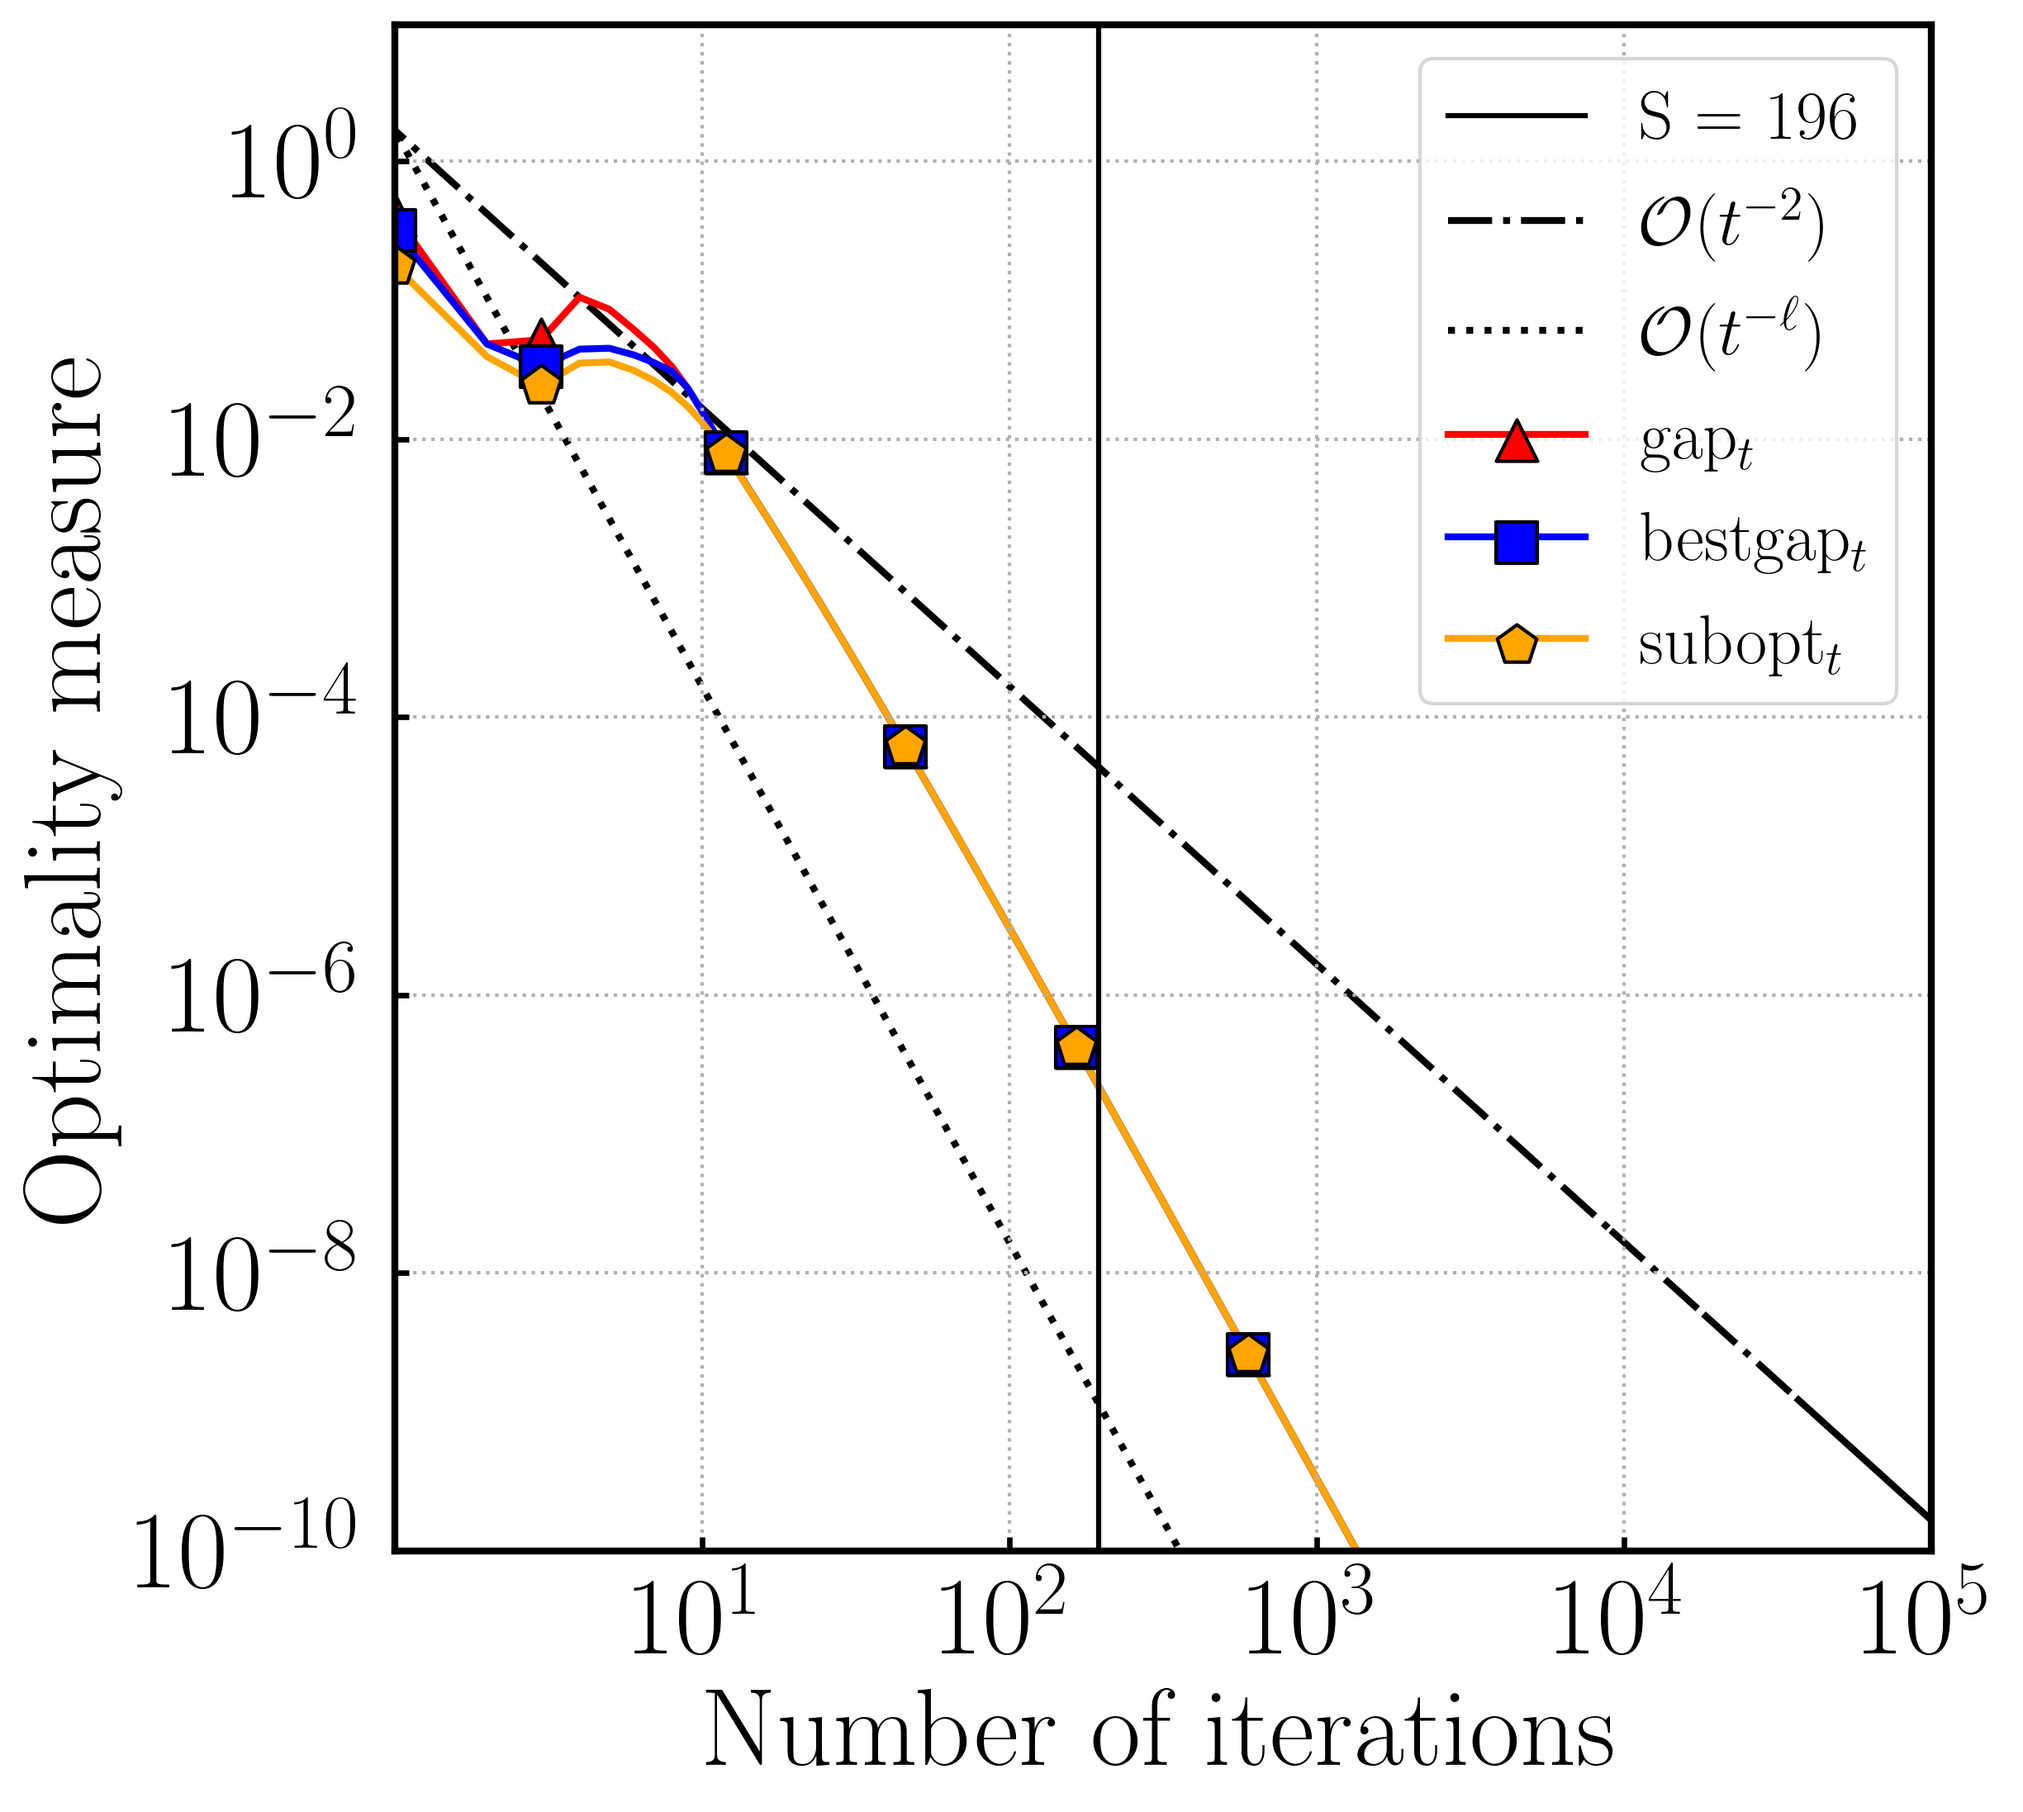
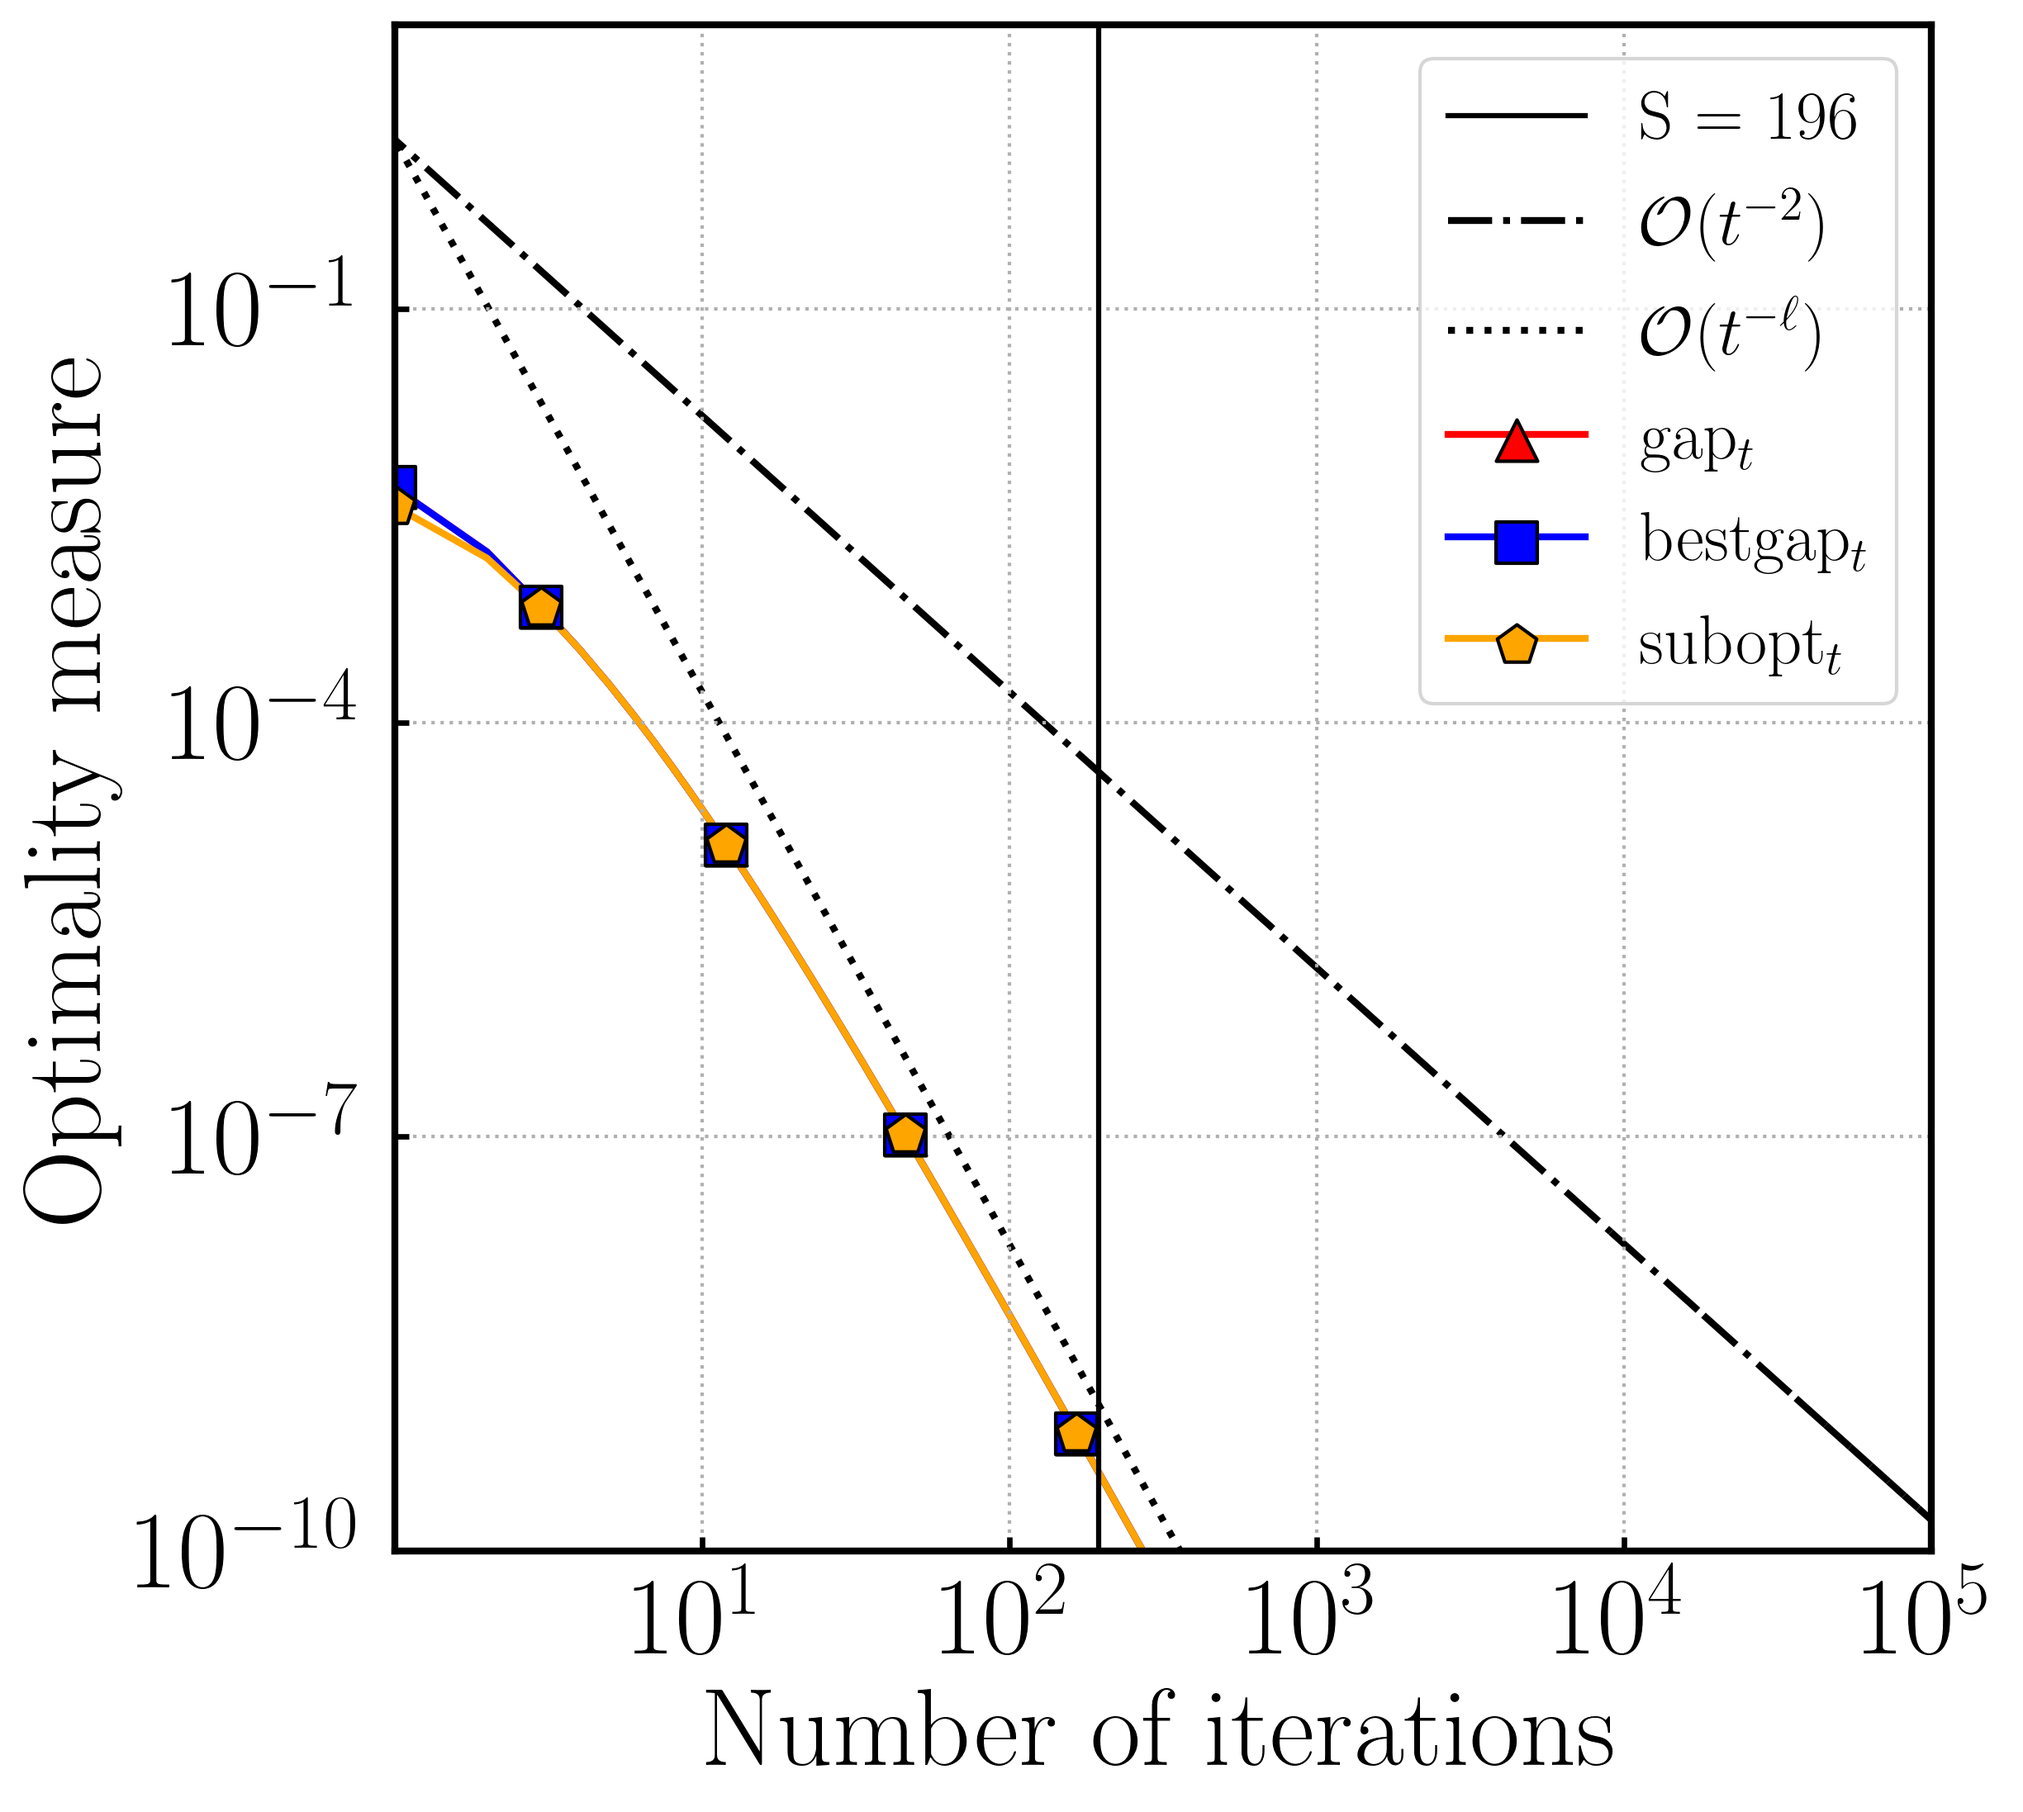
experiments have been double checked

diff --git a/experiments/strong_growth.py b/experiments/strong_growth.py
@@ -13,13 +13,12 @@ np.random.seed(RANDOM)
 mpl.rcParams['agg.path.chunksize'] = CHUNKSIZE
 mpl.rcParams['axes.linewidth'] = LINEWIDTH
 
-
 ps = [1.01, 1.1, 2., 2.5, 3., 7.]
 lmbdas = [0.2]
 l = 4
 for lmbda in lmbdas:
     for p in ps:
-        q = 1 /(1-1/p)
+        q = 1 / (1 - 1 / p)
         assert p >= 1, "Only consider lp-balls with p>= 1."
         if p < 2:
             alpha = (p - 1) / 2
@@ -27,14 +26,14 @@ for lmbda in lmbdas:
             y = np.random.random((DIMENSION, 1))
             y = (lmbda + 1) * y / lpnorm(y, q)
             L = 1.
-            M = L*(alpha*lmbda)**(-1)
+            M = L * (alpha * lmbda) ** (-1)
         elif p >= 2:
-            alpha = 1/p
+            alpha = 1 / p
             r = 2 / p
             y = np.random.random((DIMENSION, 1))
             y = (lmbda + DIMENSION ** (1 / q - 1 / p)) * y / lpnorm(y, q)
-            L = DIMENSION ** (1/2 - 1/p)
-            M = L * (alpha*lmbda)**(-2/p)
+            L = DIMENSION ** (1 / 2 - 1 / p)
+            M = L * (alpha * lmbda) ** (-2 / p)
 
         M_0 = 4 * L
         M = max(M, M_0)
@@ -46,7 +45,7 @@ for lmbda in lmbdas:
 
         fw_step_size_rules = [{"step type": "open-loop", "a": l, "b": 1, "c": l, "d": 1}]
         primal_gaps, dual_gaps, best_gaps, _ = run_experiment(ITERATIONS, objective_function, feasible_region,
-                                                                   run_more=RUN_MORE, fw_step_size_rules=fw_step_size_rules)
+                                                              run_more=RUN_MORE, fw_step_size_rules=fw_step_size_rules)
 
         gaps = [dual_gaps[0][1:ITERATIONS], best_gaps[0][1:ITERATIONS], primal_gaps[0][1:ITERATIONS]]
         labels = ["gap" + r'$_t$', "bestgap" + r'$_t$', "subopt" + r'$_t$']
@@ -55,14 +54,14 @@ for lmbda in lmbdas:
         file_name = ("strong_growth" + "_r=" + str(round(r, 2)) + "_M=" + str(round(M, 2)) + "_p=" + str(round(p, 2)) +
                      "_lmbda=" + str(round(lmbda, 2)) + "_l=" + str(l))
 
-        S = int(max(np.int64(np.ceil(M*l/2 - l)), 1))
+        S = int(max(np.int64(np.ceil(l * M / 2 - l)), 1))
         S_label = "S = " + str(S)
         lines = [(S, S_label)]
 
         gap_plotter(y_data=gaps,
                     labels=labels,
                     iterations=ITERATIONS,
-                    file_name=("gaps_"+file_name),
+                    file_name=("gaps_" + file_name),
                     x_lim=(1, ITERATIONS),
                     y_lim=determine_y_lims(primal_gaps),
                     y_label=("Optimality measure"),
@@ -73,7 +72,3 @@ for lmbda in lmbdas:
                     markers=markers,
                     vertical_lines=lines
                     )
-
-
-
-

diff --git a/experiments/weak_boundary_growth.py b/experiments/weak_boundary_growth.py
@@ -17,7 +17,7 @@ ps = [1.02, 2., 7.]
 l = 4
 for y_norm in [1.0]:
     for p in ps:
-        q = 1 /(1-1/p)
+        q = 1 / (1 - 1 / p)
         assert p >= 1, "Only consider lp-balls with p>= 1."
         if p < 2:
             alpha = (p - 1) / 2
@@ -25,18 +25,18 @@ for y_norm in [1.0]:
             y = np.random.random((DIMENSION, 1))
             y = y / lpnorm(y, p)
             L = 1.
-            mu = np.sqrt(2)*DIMENSION ** (1/2 - 1/p)
-            theta = 1/2
-            M = L*(mu/alpha)
+            mu = np.sqrt(2) * DIMENSION ** (1 / 2 - 1 / p)
+            theta = 1 / 2
+            M = L * (mu / alpha)
         elif p >= 2:
-            alpha = 1/p
+            alpha = 1 / p
             r = 2 / p
             y = np.random.random((DIMENSION, 1))
             y = DIMENSION ** (1 / q - 1 / p) * y / lpnorm(y, p)
-            L = DIMENSION ** (1/2 - 1/p)
+            L = DIMENSION ** (1 / 2 - 1 / p)
             mu = np.sqrt(2)
             theta = 1 / 2
-            M = L * (mu/alpha)**(2/p)
+            M = L * (mu / alpha) ** (2 / p)
 
         M_0 = 4 * L
         M = max(M, M_0)
@@ -55,10 +55,11 @@ for y_norm in [1.0]:
         labels = ["gap" + r'$_t$', "bestgap" + r'$_t$', "subopt" + r'$_t$']
         gap_0 = dual_gaps[0][0]
         gaps, labels, styles, colors, markers = create_reference_lines_automatically(gaps, labels, r, l, gap_0)
-        file_name = (("weak_boundary_growth" + "_r=" + str(round(r, 2)) + "_M=" + str(round(M, 2)) + "_p=" + str(round(p, 2))) +
+        file_name = (("weak_boundary_growth" + "_r=" + str(round(r, 2)) + "_M=" + str(round(M, 2)) + "_p=" + str(
+            round(p, 2))) +
                      "_y_norm=" + str(y_norm) + "_l=" + str(l))
 
-        S = int(max(np.int64(np.ceil(M * l / 2 - l)), 1))
+        S = int(max(np.int64(np.ceil(l * M / 2 - l)), 1))
         S_label = "S = " + str(S)
         lines = [(S, S_label)]
 

diff --git a/experiments/polytope.py b/experiments/polytope.py
@@ -14,19 +14,18 @@ mpl.rcParams['agg.path.chunksize'] = CHUNKSIZE
 mpl.rcParams['axes.linewidth'] = LINEWIDTH
 
 
-rhos = [0.3, 0.5, 0.7]
-kappas = [2]
+rhos = [0.1]
+
+kappas = [0.0001, 0.01, 100]
 l = 4
 for kappa in kappas:
     for rho in rhos:
         z = np.random.random((DIMENSION, 1))
         z[0] = 0
         z[1] = 0
-        z[int(DIMENSION / 2) + 1:] = 0
         z = rho * z / lpnorm(z, 1)
         z[1] = (1 - rho)
         offset = kappa * np.ones((DIMENSION, 1))
-        offset[int(DIMENSION / 2) + 1:] = 0
         offset[0] = 0
         y = z + offset
         # Note that x* = z
@@ -34,11 +33,11 @@ for kappa in kappas:
         mu = np.sqrt(2) * np.sqrt(DIMENSION)
         theta = 1 / 2
         r = theta
-        m = rho /(4*mu)
+        m = rho /((2**(2-theta))*mu)
         Q = np.ceil(4*L*l * ((4*L*mu/kappa)**(1/theta)))
         eta_Q = l/(Q+l)
         B = 2 - rho
-        M = max(m/(eta_Q)*(2*B)**(1-theta), (2*L+B)/(eta_Q**2))
+        M = max(m/eta_Q*((4*B)**(1-theta)), 2*(2*L+B)/eta_Q)
 
         M_0 = 4 * L
 
@@ -62,9 +61,14 @@ for kappa in kappas:
         file_name = ("polytope_growth" + "_l1_ball" + "_rho=" + str(rho) + "_kappa=" + str(kappa) + "_l=" + str(l))
 
         # compute S
-        S = int(max(1, np.ceil(2**(1/r)*l*M_0/(m**(1/r)) - l), Q))
-        S_label = "S = " + str(S)
-        lines = [(S, S_label)]
+        # S = int(max(1, np.ceil(2**(1/r)*l*M/(m**(1/r)) - l), Q))
+        # S_label = "S = " + str(S)
+        # lines = [(S, S_label)]
+
+        # Q_label = "Q = " + str(Q)
+        # lines = [(Q, Q_label)]
+
+        lines = None
 
         gap_plotter(y_data=gaps,
                     labels=labels,

diff --git a/global_.py b/global_.py
@@ -11,7 +11,7 @@ FONT_SIZE_LEGEND = 20
 CHUNKSIZE = 10000
 
 # Experiments
-DIMENSION = 10
+DIMENSION = 100
 ITERATIONS = 100000
 RUN_MORE = 5 * ITERATIONS
 ITERATIONS_LOGISTIC_REGRESSION = 10000
